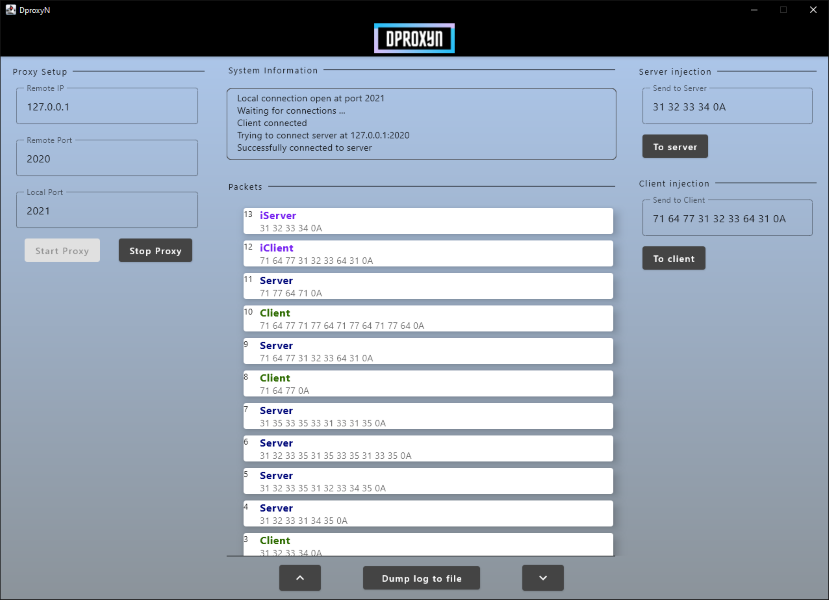
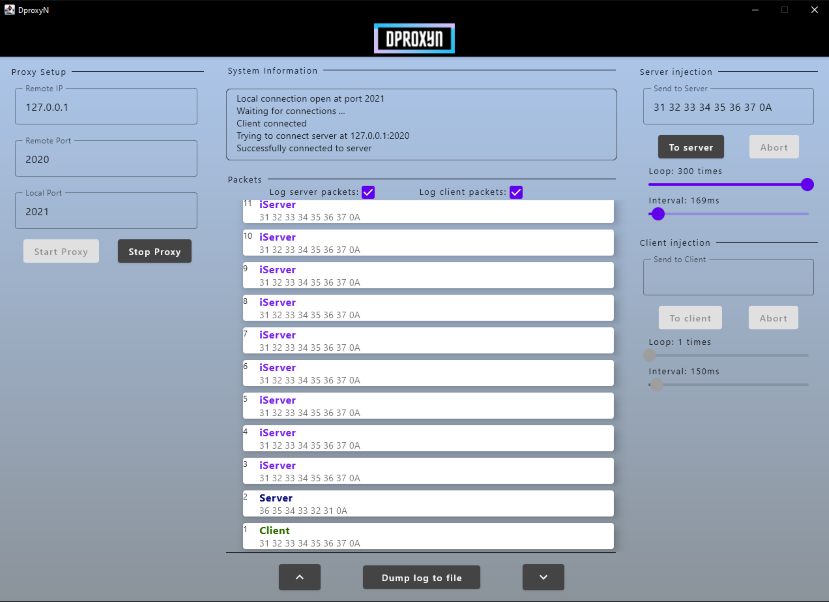
Injection control
- Added injection loops;
- Added injection interval;
- Added show/hide logs.

diff --git a/src/main/kotlin/components/MainView.kt b/src/main/kotlin/components/MainView.kt
@@ -32,7 +32,6 @@ import kotlin.concurrent.thread
 
 val defaultPadding = Modifier.padding(8.dp)
 
-
 @Composable
 fun leftSide(
     modifier: Modifier,
@@ -40,7 +39,12 @@ fun leftSide(
     logWriterService: LogWriterService
 ) {
     val defaultButtonColor = buttonColors(backgroundColor = Color.DarkGray, contentColor = Color.White)
+    val defaultButtonAbortColor = buttonColors(backgroundColor = MaterialTheme.colors.error)
     val injectedTextColor = MaterialTheme.colors.primary.copy(alpha = ContentAlpha.high)
+    val checkboxDefaultColor = CheckboxDefaults.colors(checkedColor = MaterialTheme.colors.primary)
+
+    val defaultLoopValueRange = 1f..300f
+    val defaultIntervalValueRange = 10f..3000f
 
     var remoteAddress by remember { mutableStateOf("127.0.0.1") }
     var remotePort by remember { mutableStateOf("2020") }
@@ -51,11 +55,19 @@ fun leftSide(
     var messageLogList by mutableStateOf(listOf<String>())
     val listState = rememberLazyListState()
     val coroutineScope = rememberCoroutineScope()
+    var clientLogEnabled by remember { mutableStateOf(true) }
+    var serverLogEnabled by remember { mutableStateOf(true) }
 
     var packetToServer by remember { mutableStateOf(" ") }
     var packetToClient by remember { mutableStateOf(" ") }
+    var sendToServerSliderPacketAmount by remember { mutableStateOf(1f) }
+    var sendToServerSliderPacketDelay by remember { mutableStateOf(150f) }
+    var sendToClientSliderPacketAmount by remember { mutableStateOf(1f) }
+    var sendToClientSliderPacketDelay by remember { mutableStateOf(150f) }
+    var statedInjectionServerState by remember { mutableStateOf(false) }
+    var statedInjectionClientState by remember { mutableStateOf(false) }
 
-    //Proxy Setup
+    /** Proxy Setup **/
     Column(
         modifier
             .padding(start = 16.dp, end = 16.dp, top = 36.dp)
@@ -153,10 +165,9 @@ fun leftSide(
                 Text("Stop Proxy")
             }
         }
-
     }
 
-    //Center
+    /** Center **/
     Column(
         modifier
             .padding(start = 16.dp, end = 16.dp, top = 36.dp)
@@ -202,7 +213,7 @@ fun leftSide(
 
         Spacer(
             modifier = Modifier
-                .padding(16.dp)
+                .padding(10.dp)
         )
 
         Row(
@@ -221,10 +232,45 @@ fun leftSide(
 
             )
         }
-        Spacer(
-            modifier = Modifier
-                .padding(10.dp)
-        )
+        Row(
+            modifier.fillMaxWidth(),
+            horizontalArrangement = Arrangement.SpaceEvenly
+        ) {
+            Row {
+                Text(
+                    "Log server packets:",
+                    style = OVER_LINE_STYLE,
+                    modifier = modifier.padding(top = 2.dp, end = 2.dp)
+                )
+                Checkbox(
+                    colors = checkboxDefaultColor,
+                    checked = serverLogEnabled,
+                    onCheckedChange = {
+                        serverLogEnabled = it
+                        proxyService.serverLog = it
+                    }
+                )
+            }
+            Row {
+                Text(
+                    "Log client packets:",
+                    style = OVER_LINE_STYLE,
+                    modifier = modifier.padding(top = 2.dp, end = 2.dp)
+                )
+                Checkbox(
+                    colors = checkboxDefaultColor,
+                    checked = clientLogEnabled,
+                    onCheckedChange = {
+                        clientLogEnabled = it
+                        proxyService.clientLog = it
+                    }
+                )
+            }
+            Spacer(
+                modifier = Modifier
+                    .padding(6.dp)
+            )
+        }
 
         LazyColumn(
             modifier
@@ -323,7 +369,7 @@ fun leftSide(
         }
     }
 
-    //Packet Injector
+    /** Packet Injector **/
     Column(
         modifier
             .padding(start = 16.dp, end = 16.dp, top = 36.dp)
@@ -365,18 +411,62 @@ fun leftSide(
             onValueChange = { value -> packetToServer = value },
             label = { Text("Send to Server") }
         )
-        Button(
-            modifier = defaultPadding,
-            enabled = statedState,
-            colors = defaultButtonColor,
-            onClick = {
-                coroutineScope.launch {
-                    proxyService.sendPacket2Server(packetToServer)
-                }
-            }
+        Row(
+            modifier
+                .fillMaxWidth(),
+            horizontalArrangement = Arrangement.SpaceEvenly
         ) {
-            Text("To server")
+            Button(
+                modifier = defaultPadding,
+                enabled = (statedState && packetToServer != " " && !statedInjectionServerState),
+                colors = defaultButtonColor,
+                onClick = {
+                    coroutineScope.launch {
+                        proxyService.runningServerInjection = true
+                        proxyService.sendPacket2Server(
+                            packet = packetToServer,
+                            loop = sendToServerSliderPacketAmount.toInt(),
+                            interval = sendToServerSliderPacketDelay.toLong()
+                        )
+                    }
+                }
+            ) {
+                Text("To server")
+            }
+            Button(
+                modifier = defaultPadding,
+                enabled = statedInjectionServerState,
+                colors = defaultButtonAbortColor,
+                onClick = { proxyService.runningServerInjection = false }
+            ) {
+                Text("Abort")
+            }
         }
+
+        Text(
+            "Loop: ${sendToServerSliderPacketAmount.toInt()} times",
+            style = OVER_LINE_STYLE,
+            modifier = modifier.padding(start = 16.dp, 2.dp)
+        )
+        Slider(
+            enabled = (packetToServer != " "),
+            modifier = defaultPadding.height(10.dp),
+            value = sendToServerSliderPacketAmount,
+            onValueChange = { sendToServerSliderPacketAmount = it },
+            valueRange = defaultLoopValueRange
+        )
+        Text(
+            "Interval: ${sendToServerSliderPacketDelay.toLong()}ms",
+            style = OVER_LINE_STYLE,
+            modifier = modifier.padding(start = 16.dp, 2.dp)
+        )
+        Slider(
+            enabled = (packetToServer != " "),
+            modifier = defaultPadding.height(10.dp),
+            value = sendToServerSliderPacketDelay,
+            onValueChange = { sendToServerSliderPacketDelay = it },
+            valueRange = defaultIntervalValueRange
+        )
 
         Spacer(
             modifier = Modifier
@@ -402,7 +492,6 @@ fun leftSide(
                 modifier = Modifier
                     .padding(10.dp)
             )
-
         }
 
         OutlinedTextField(
@@ -414,39 +503,64 @@ fun leftSide(
             label = { Text("Send to Client") }
         )
 
-        Button(
-            modifier = defaultPadding,
-            enabled = statedState,
-            colors = defaultButtonColor,
-            onClick = {
-                coroutineScope.launch {
-                    proxyService.sendPacket2Client(packetToClient)
-                }
-            }
+        Row(
+            modifier
+                .fillMaxWidth(),
+            horizontalArrangement = Arrangement.SpaceEvenly
         ) {
-            Text("To client")
-        }
-
-        Row(
-            modifier
-                .padding(start = 16.dp, end = 16.dp)
-                .fillMaxSize(),
-            horizontalArrangement = Arrangement.SpaceEvenly,
-
+            Button(
+                modifier = defaultPadding,
+                enabled = (statedState && packetToClient != " " && !statedInjectionClientState),
+                colors = defaultButtonColor,
+                onClick = {
+                    coroutineScope.launch {
+                        proxyService.sendPacket2Client(
+                            packet = packetToClient,
+                            loop = sendToClientSliderPacketAmount.toInt(),
+                            interval = sendToClientSliderPacketDelay.toLong()
+                        )
+                    }
+                }
             ) {
+                Text("To client")
+            }
 
-        }
-
-        Row(
-            modifier
-                .padding(start = 16.dp, end = 16.dp)
-                .fillMaxSize(),
-            horizontalArrangement = Arrangement.SpaceEvenly,
-
+            Button(
+                modifier = defaultPadding,
+                enabled = statedInjectionClientState,
+                colors = defaultButtonAbortColor,
+                onClick = { proxyService.runningClientInjection = false }
             ) {
+                Text("Abort")
+            }
         }
-
+        Text(
+            "Loop: ${sendToClientSliderPacketAmount.toInt()} times",
+            style = OVER_LINE_STYLE,
+            modifier = modifier.padding(start = 16.dp, 2.dp)
+        )
+        Slider(
+            enabled = (packetToClient != " "),
+            modifier = defaultPadding.height(10.dp),
+            value = sendToClientSliderPacketAmount,
+            onValueChange = { sendToClientSliderPacketAmount = it },
+            valueRange = defaultLoopValueRange
+        )
+        Text(
+            "Interval: ${sendToClientSliderPacketDelay.toLong()}ms",
+            style = OVER_LINE_STYLE,
+            modifier = modifier.padding(start = 16.dp, 2.dp)
+        )
+        Slider(
+            enabled = (packetToClient != " "),
+            modifier = defaultPadding.height(10.dp),
+            value = sendToClientSliderPacketDelay,
+            onValueChange = { sendToClientSliderPacketDelay = it },
+            valueRange = defaultIntervalValueRange
+        )
     }
+
+    /** Updaters **/
 
     if (packetLogList.size != logWriterService.logList.size) {
         packetLogList = logWriterService.logList.map { it }.reversed()
@@ -454,5 +568,13 @@ fun leftSide(
 
     if (messageLogList.size != logWriterService.systemLogList.size) {
         messageLogList = logWriterService.systemLogList.map { it }.takeLast(6)
+    }
+
+    if (proxyService.runningServerInjection != statedInjectionServerState) {
+        statedInjectionServerState = proxyService.runningServerInjection
+    }
+
+    if (proxyService.runningClientInjection != statedInjectionClientState) {
+        statedInjectionClientState = proxyService.runningClientInjection
     }
 }

diff --git a/src/main/kotlin/services/ProxyService.kt b/src/main/kotlin/services/ProxyService.kt
@@ -11,6 +11,8 @@ class ProxyService(
     var serverLog = true
     var clientLog = true
     var running = false
+    var runningClientInjection = false
+    var runningServerInjection = false
     private lateinit var localConnection: Socket
     private lateinit var remoteConnection: Socket
 
@@ -73,31 +75,57 @@ class ProxyService(
         logWriterService.systemLog("Disconnected from the server")
     }
 
-    fun sendPacket2Server(packet: String) {
-        try {
-            communicationService.send(
-                connectServer = remoteConnection,
-                packetToSend = packet,
-                indicator = Indicator.iServer,
-                log = serverLog,
-                iPacketNumber = ++communicationService.packetNumber
-            )
-        } catch (ex: Exception) {
-            logWriterService.systemLog("Failed to inject: ${ex.message}")
-        }
+    fun sendPacket2Server(packet: String, loop: Int, interval: Long) {
+        Thread {
+            var loopCounter = loop
+            runningServerInjection = true
+
+            do {
+                --loopCounter
+                try {
+                    communicationService.send(
+                        connectServer = remoteConnection,
+                        packetToSend = packet,
+                        indicator = Indicator.iServer,
+                        log = serverLog,
+                        iPacketNumber = ++communicationService.packetNumber
+                    )
+                    Thread.sleep(interval)
+                } catch (ex: Exception) {
+                    logWriterService.systemLog("Failed to inject: ${ex.message}")
+                    break
+                }
+            } while (loopCounter > 0 && runningServerInjection)
+
+            runningServerInjection = false
+
+        }.start()
     }
 
-    fun sendPacket2Client(packet: String) {
-        try {
-            communicationService.send(
-                connectServer = localConnection,
-                packetToSend = packet,
-                indicator = Indicator.iClient,
-                log = clientLog,
-                iPacketNumber = ++communicationService.packetNumber
-            )
-        } catch (ex: Exception) {
-            logWriterService.systemLog("Failed to inject: ${ex.message}")
-        }
+    fun sendPacket2Client(packet: String, loop: Int, interval: Long) {
+        Thread {
+            var loopCounter = loop
+            runningClientInjection = true
+
+            do {
+                --loopCounter
+                try {
+                    communicationService.send(
+                        connectServer = localConnection,
+                        packetToSend = packet,
+                        indicator = Indicator.iClient,
+                        log = clientLog,
+                        iPacketNumber = ++communicationService.packetNumber
+                    )
+                    Thread.sleep(interval)
+                } catch (ex: Exception) {
+                    logWriterService.systemLog("Failed to inject: ${ex.message}")
+                    break
+                }
+            } while (loopCounter > 0 && runningClientInjection)
+
+            runningClientInjection = false
+
+        }.start()
     }
 }
